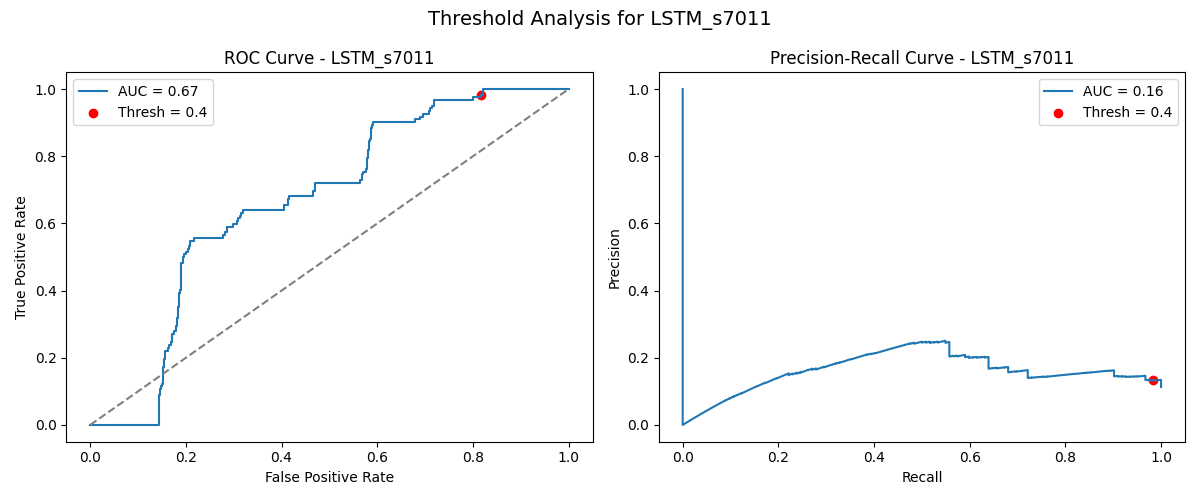
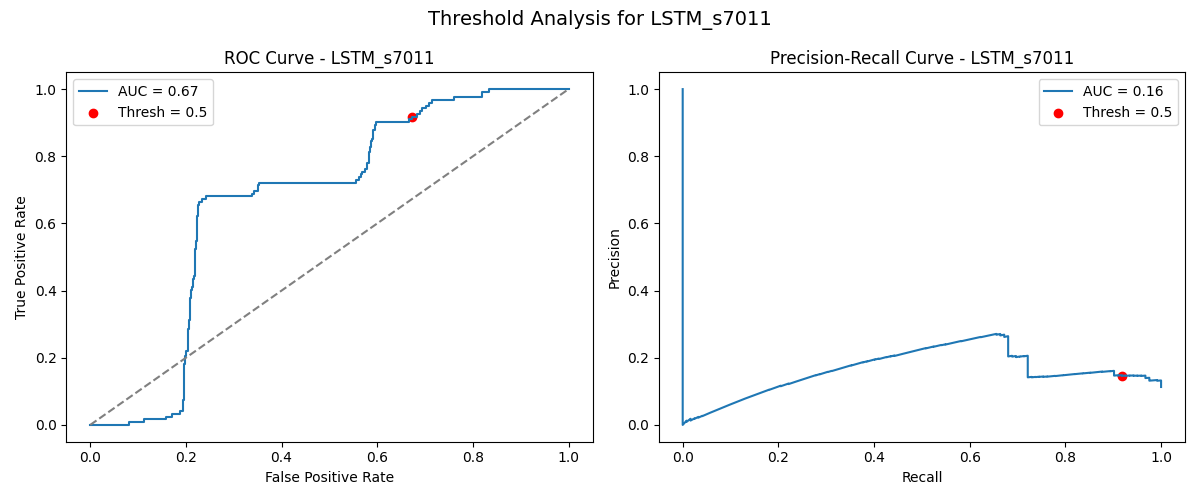
auto-thresh system update

diff --git a/sleep_wave/experiments/loso_lstm_runner.py b/sleep_wave/experiments/loso_lstm_runner.py
@@ -25,6 +25,7 @@ def main():
     parser.add_argument('--stride', type=int, default=None, help='Stride for LSTM windowing, default:None')
     parser.add_argument('--threshold', type=float, default=0.5, help='Thresh for sigmoid output in binary classification')
     parser.add_argument('--plot_thresholds', action='store_true', help='Plot ROC/PR curves after training (binary only)')
+    parser.add_argument('--auto_thresh', action='store_true', help='Find threshold that maximizes F1 on validation set')
 
 
     args = parser.parse_args()

diff --git a/src/models/loso_lstm.py b/src/models/loso_lstm.py
@@ -147,6 +147,8 @@ def loso_lstm(df:pd.DataFrame, feature_cols, label_col='label',
             best_thresh, best_score = find_best_threshold(all_targets, all_probs, metric='f1')
             threshold = best_thresh
             print(f'[AUTO] Best threshold found: {best_thresh:.2f}') 
+        
+            all_preds = (all_preds > threshold).astype(int)
 
         if is_binary and plot_thresholds and all_probs is not None:
             from src.eval import plot_threshold_curves 
